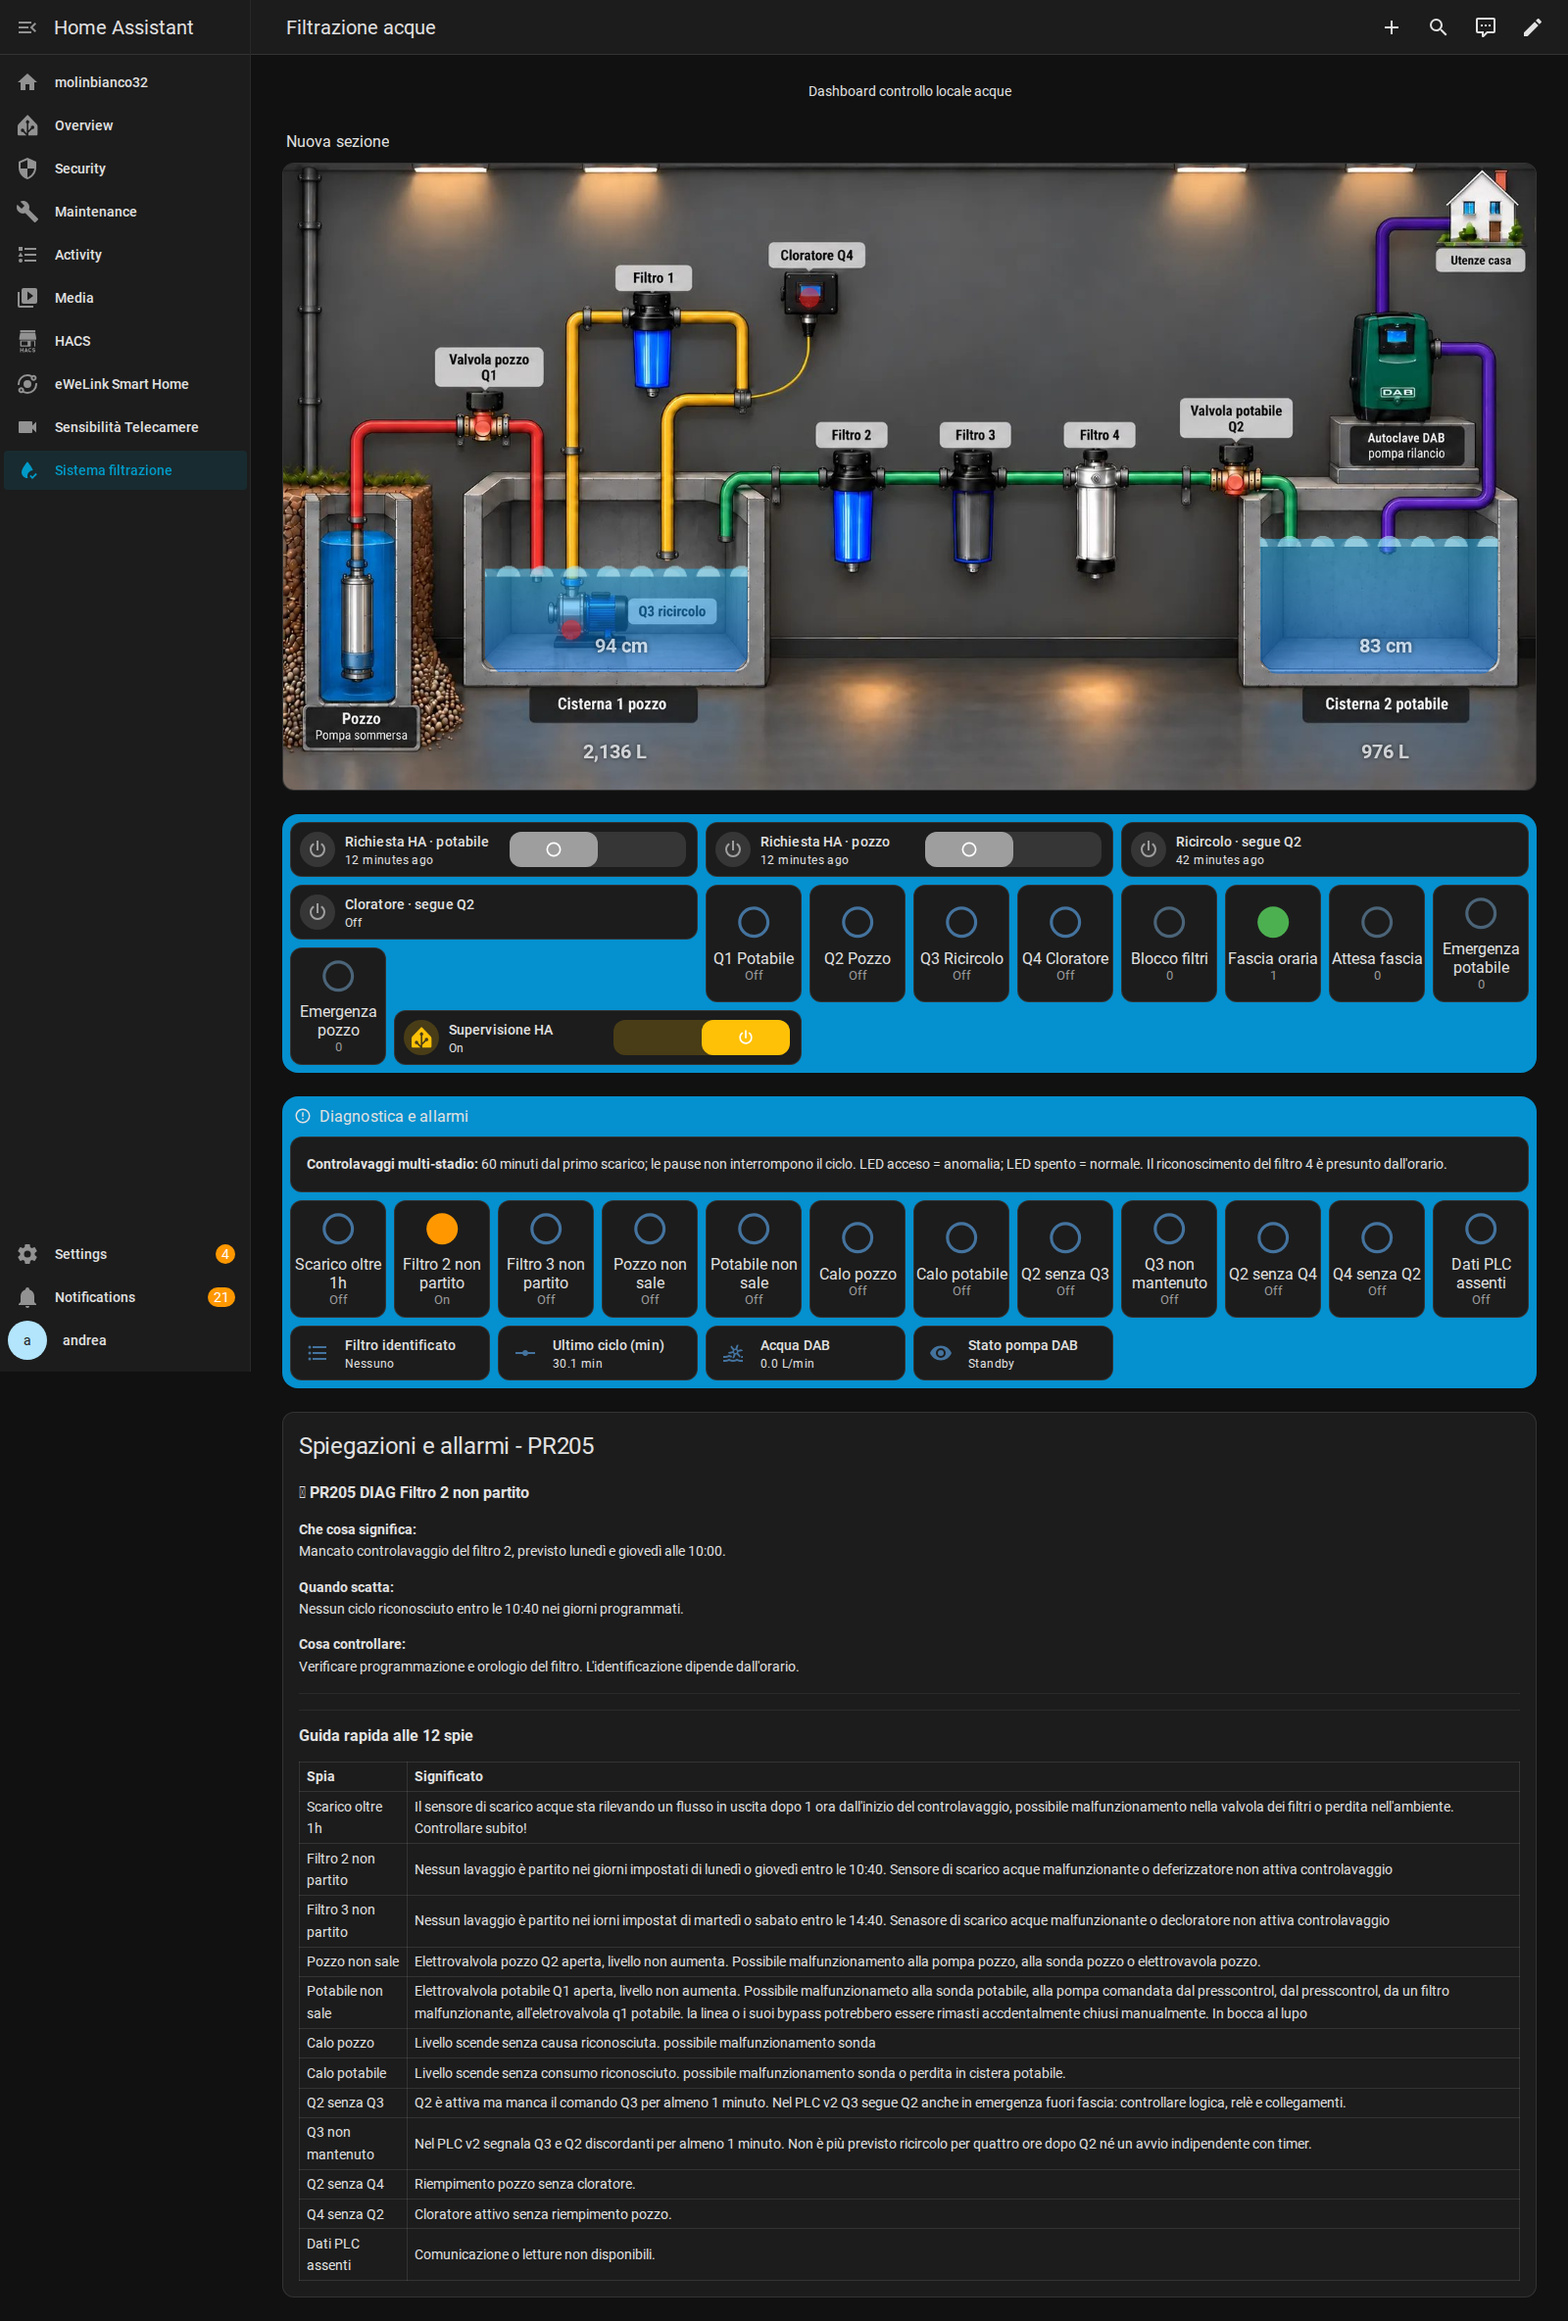
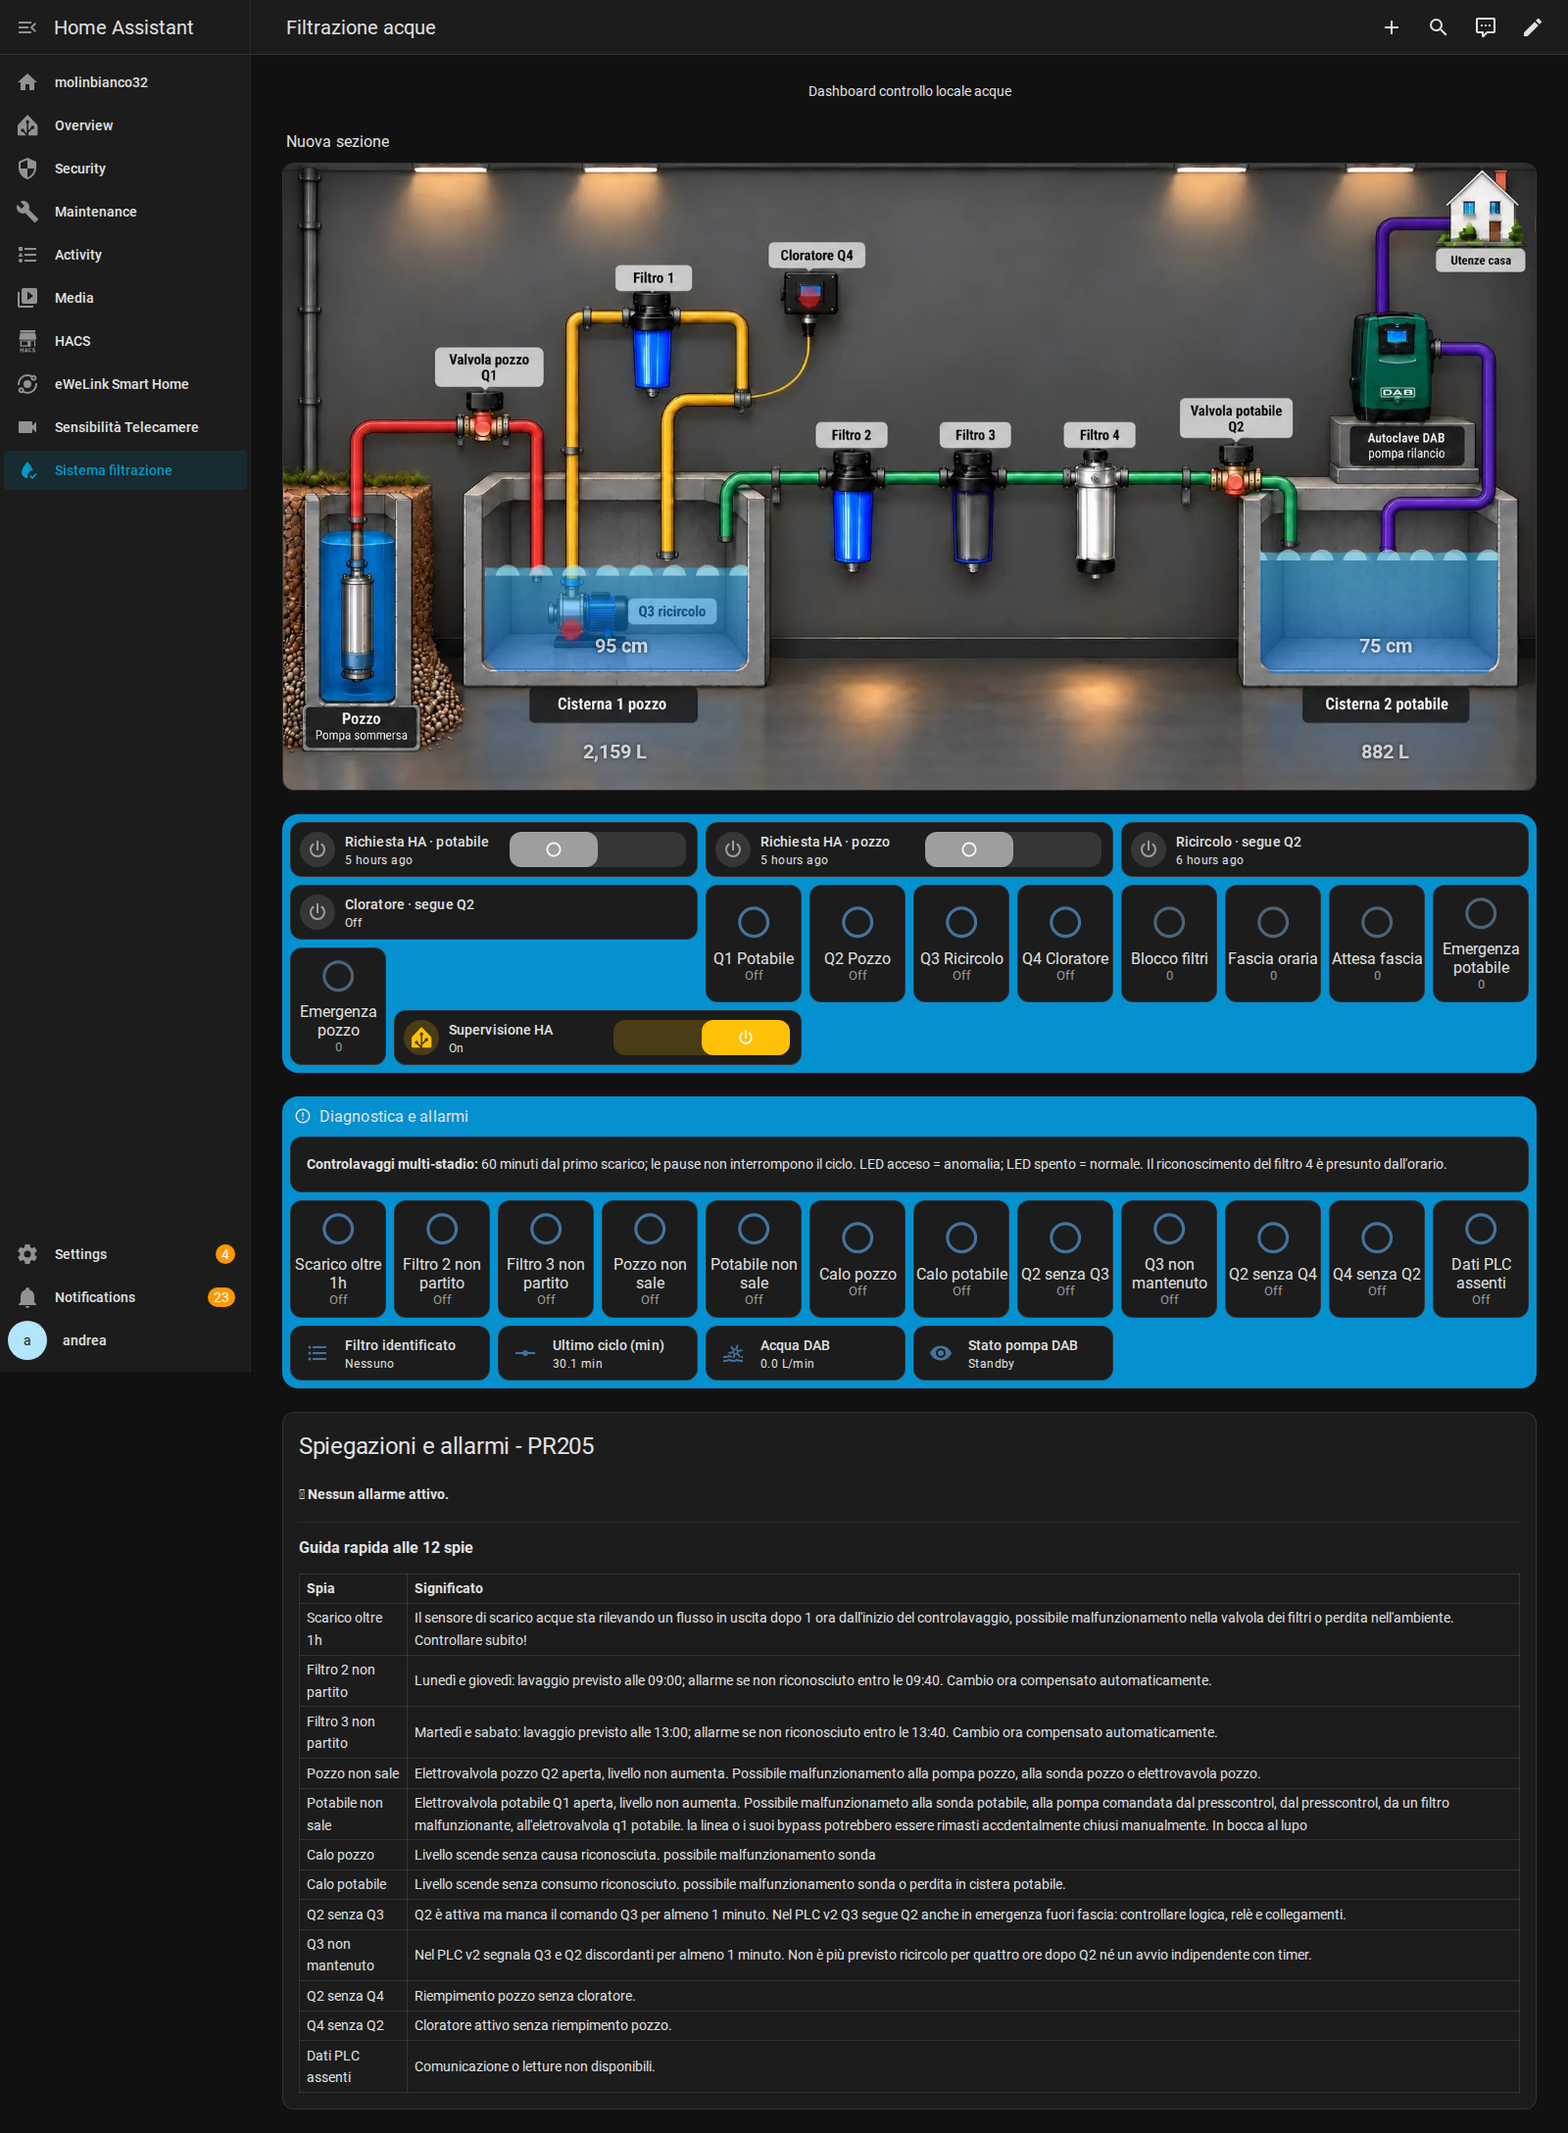
Correggi cambio ora dei controlavaggi: calendario UTC+02, diagnostica e guida plancia

diff --git a/filtrazione-acque/docs/CORREZIONE-ORA-SOLARE.md b/filtrazione-acque/docs/CORREZIONE-ORA-SOLARE.md
@@ -1,0 +1,24 @@
+# Correzione diagnostica e ora solare — 29 ottobre 2026
+
+## Causa verificata
+
+Il sensore di blocco filtri ha registrato l’inizio del controlavaggio giovedì 29 ottobre alle **09:00:28**. HA cercava il filtro 2 tra le 09:30 e le 10:30 e lo aveva classificato “Filtro 4 presunto”. L’allarme “Filtro 2 non partito” risultava quindi acceso benché il lavaggio fosse avvenuto. Lo storico mostra lo stesso problema martedì 27 ottobre: ciclo alle **13:11:44** attribuito al filtro 4.
+
+## Correzione
+
+I timer mantengono l’orario estivo, cioè **UTC+02 fisso**. Riconoscimento e scadenza degli allarmi usano ora entrambi questo riferimento, indipendente dal cambio stagionale del fuso HA (Europe/Berlin, con lo stesso cambio di Europe/Rome).
+
+| Filtro | Giorni | Ora solare | Ora legale | Allarme dopo |
+|---|---|---|---|---|
+| 2 | lunedì, giovedì | 09:00 | 10:00 | 40 minuti |
+| 3 | martedì, sabato | 13:00 | 14:00 | 40 minuti |
+
+Riconoscimento presunto entro ±30 minuti dall’orario previsto; resto classificato come filtro 4 presunto. I giorni settimanali e la tolleranza sono conservati. La guida della plancia mostra gli orari locali ricavati dagli stessi sensori. Se in futuro si correggono manualmente gli orologi dei filtri, occorrerà aggiornare il riferimento diagnostico.
+
+Le memorie sono state corrette usando gli eventi registrati: ultimo filtro 2 = 29/10 09:00:28; ultimo filtro 3 = 27/10 13:11:44; ultimo filtro 4 presunto ripristinato al 28/10 09:30:42, prima dell’errata attribuzione di oggi. Nessun ciclo inventato o comandato.
+
+## Verifiche
+
+441 scenari e 1323 controlli renderizzati dal vero motore template HA: inverno, estate, giorni non programmati, confini ±30 minuti, scadenza +40 minuti, ciclo riconosciuto e cambi d’ora 2027. Tutti superati. Configurazione verificata e ricaricata senza riavvio. Allarme filtro 2 ora OFF; filtro 3 OFF. Nessuna modifica al PLC, alle uscite o alle regole idrauliche.
+
+La diagnostica resta un’identificazione da giorno/orario su sensore condiviso, non un feedback separato di ciascun filtro. L’allarme di mancata partenza resta attivo se manca il ciclo atteso.

diff --git a/filtrazione-acque/README.md b/filtrazione-acque/README.md
@@ -36,3 +36,7 @@ Richieste native: potabile <30 cm e pozzo <60 cm per 50 secondi. Emergenze 20/50
 Plancia verificata nel browser: due livelli animati, nessuna scheda in errore, nessun errore JavaScript. Nessun comando di avvio impianto inviato durante la pubblicazione. Il progetto è stato caricato dall’utente e il protocollo 2 è stato letto dalla PLC. Restano da completare il collaudo idraulico, la strategia fotovoltaico/consumi e il ruolo DAB: non sono già implementati dal tasto supervisione.
 
 I due backup completi dell’intervento `PRIMA.zip` e `DOPO.zip` restano sul dispositivo in `/home/dedroid/ottimizzazione-automazioni-ha/backup-corrente/`.
+
+## Cambio ora dei timer filtri
+
+[Correzione verificata e calendario stagionale](docs/CORREZIONE-ORA-SOLARE.md): filtro 2 alle 09:00 in inverno/10:00 in estate, filtro 3 alle 13:00/14:00. Riconoscimento e allarmi seguono il riferimento UTC+02 fisso dei timer; nessun aggiustamento manuale stagionale richiesto in HA.
